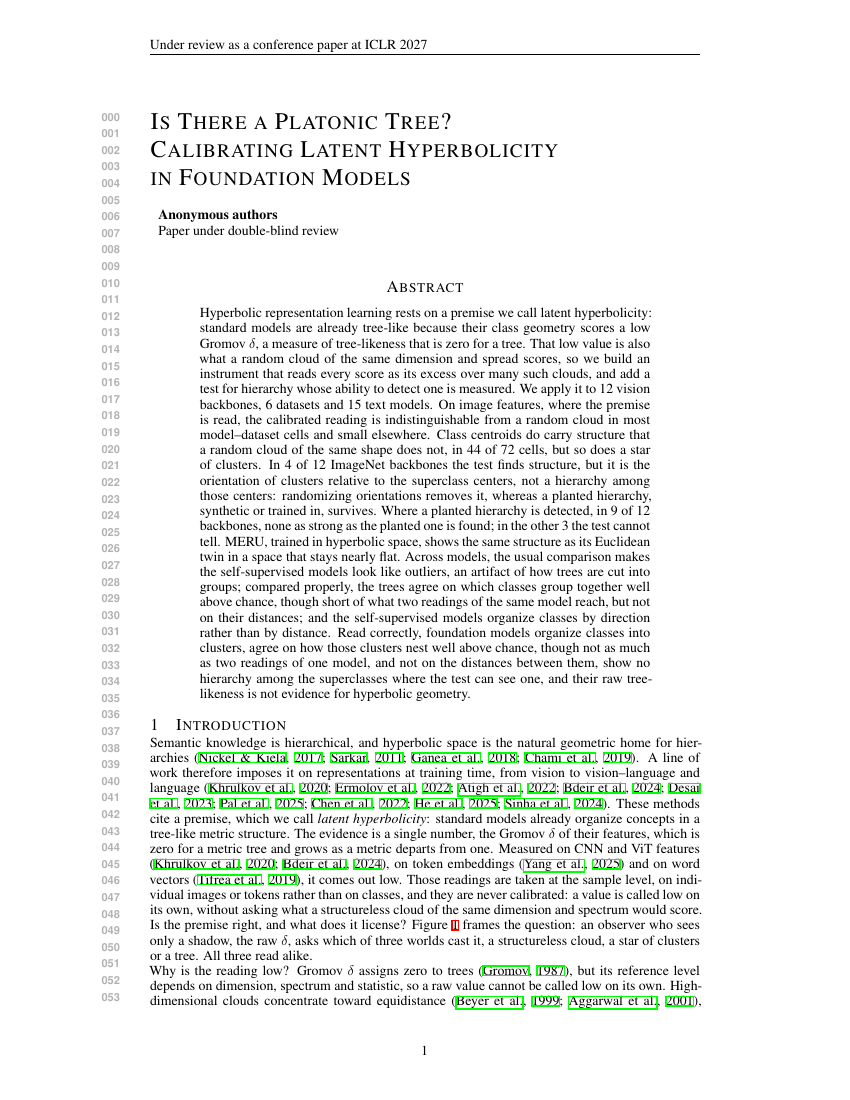
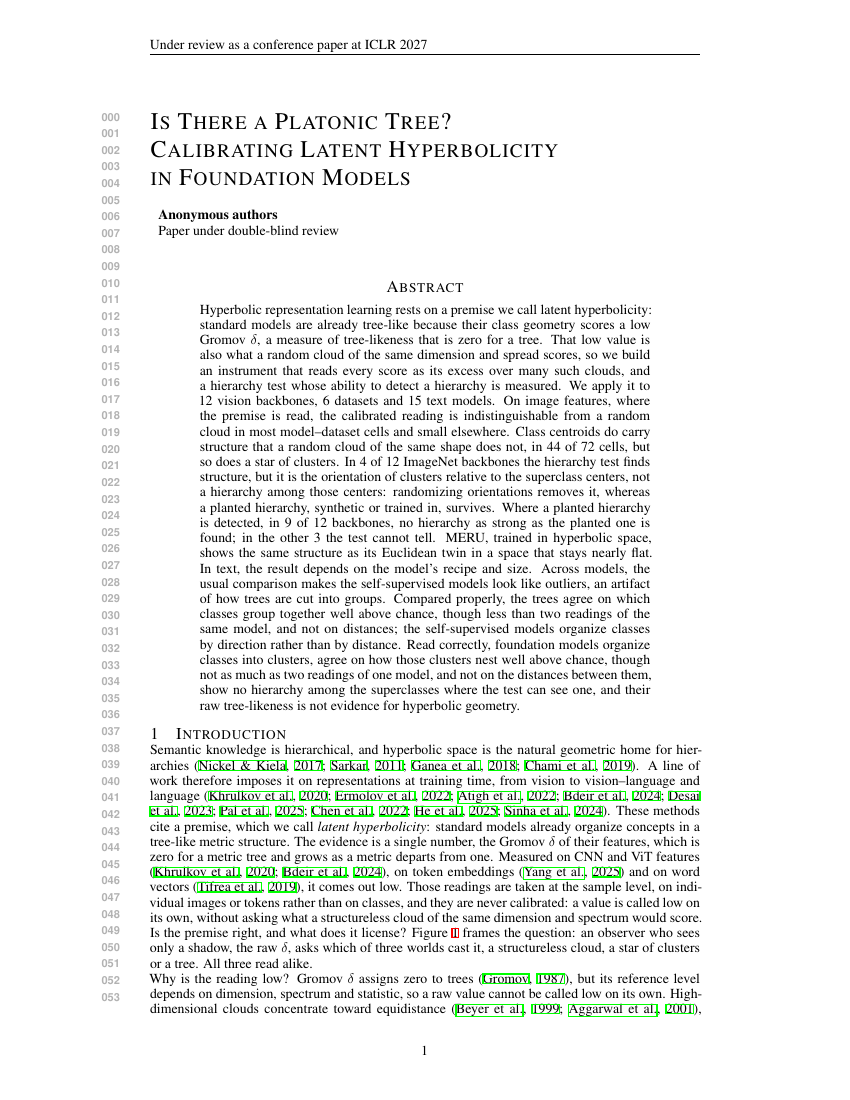
Abstract (author): 'a hierarchy test whose ability to detect a hierarchy is measured', 'the hierarchy test finds structure', 'no hierarchy as strong as the planted one is found', new sentence 'In text, the result depends on the model's recipe and size.', sentence 9 split in two with 'though less tha
Claude-Session: https://claude.ai/code/session_01X3uQtPxuL37VCSgmwvB8QH

Changed region(s): [[0.1529, 0.2782, 0.8259, 0.9273]]

diff --git a/rebuttal/scripts/sweep_freeze.py b/rebuttal/scripts/sweep_freeze.py
@@ -1007,7 +1007,7 @@ def final_checks():
     abs_expected = EDJ.get("abstract_final") or EDJ.get("abstract_sixth_review", "")   # abstract_final = the sixth-review text, or its priority-1c variant when expR80 met the rule
     for k, v in fills_.items(): abs_expected = abs_expected.replace("{{" + k + "}}", str(v))
     abs_now = norm(seg(bf, "\\begin{abstract}", "\\end{abstract}").replace("\\begin{abstract}", ""))
-    chk("final: abstract is the recorded text (360 words or fewer, the author's cap of 2026-09-23 with the numeral rule, cell defined in its own sentence, the deep synthetic hierarchy detected and no hierarchy above the superclasses found), 15 text models", abs_now == norm(abs_expected) and len(_re.sub(r"\$[^$]*\$", "", abs_now).replace("--", "").split()) <= 360 and "model--dataset cells" in abs_now and "Where a planted hierarchy is detected, in 9 of 12 backbones, none as strong as the planted one is found; in the other 3 the test cannot tell." in abs_now and "whereas a planted hierarchy, synthetic or trained in, survives" in abs_now and "15 text models" in bf and "16 text models" not in bf and "sixteen" not in bf and "two OLMo" not in bf and "show no hierarchy among the superclasses where the test can see one" in abs_now and "30 of 36" not in abs_now and "two of which survive" not in abs_now)
+    chk("final: abstract is the recorded text (360 words or fewer, the author's cap of 2026-09-23 with the numeral rule, cell defined in its own sentence, the deep synthetic hierarchy detected and no hierarchy above the superclasses found), 15 text models", abs_now == norm(abs_expected) and len(_re.sub(r"\$[^$]*\$", "", abs_now).replace("--", "").split()) <= 360 and "model--dataset cells" in abs_now and "Where a planted hierarchy is detected, in 9 of 12 backbones, no hierarchy as strong as the planted one is found; in the other 3 the test cannot tell." in abs_now and "whereas a planted hierarchy, synthetic or trained in, survives" in abs_now and "15 text models" in bf and "16 text models" not in bf and "sixteen" not in bf and "two OLMo" not in bf and "show no hierarchy among the superclasses where the test can see one" in abs_now and "30 of 36" not in abs_now and "two of which survive" not in abs_now)
     chk("final: S1 with Figure 1 verbatim from main_local.tex modulo the recorded edits (an edit may carry fills)", norm(seg(bf, "\\section{Introduction}", "\\section{Related Work}")) == norm(fillb(edit(seg(LOC, "\\section{Introduction}", "\\section{Related Work}")))))
     rel_loc = norm(seg(LOC, "\\section{Related Work}", "\\section{The Instrument}")); rel_f = norm(seg(bf, "\\section{Related Work}", "\\section{Methodology}"))
     rel_loc = norm(edit(seg(LOC, "\\section{Related Work}", "\\section{The Instrument}")))
@@ -1252,7 +1252,7 @@ def final_checks():
     dobs = _j.load(open(R/"final_dec_obs.json")) if (R/"final_dec_obs.json").exists() else {"kind": "open"}
     obs_ok = (("is an open observation" in bf) if dobs["kind"] == "open" else ("from both sides: decoupling shrinks the star spread" in pw and dobs["kind"] in ("star", "excess", "both")))
     chk("final (7th review): headline scoped in the abstract (twice), S1, contribution 2, S5.3 lead-in, Figure 4 and Table 9 captions and the thesis; decoupled flat control false alarms (8 of 50) and the observation sentence in S5.3 from the files; limitation (iii) with ViT-L's ratio 1.9 and the DINOv2 range from expR64b; Figure 1 caption 'read alike, all low'; no unproved extension in the proof of Proposition 1(b)",
-        "The control covers the supervised" not in bf and "whose noise level, ratios" not in bf and p81_ok and pc_ok and bf.count("no hub hierarchy is found in 9 of 12 backbones where the decoupled control detects an implanted one, and the test is blind in the other 3") == 0 and "Where a planted hierarchy is detected, in 9 of 12 backbones, none as strong as the planted one is found; in the other 3 the test cannot tell." in abs_now and "noise level at which the test was validated" not in bf and "\\paragraph{No hub hierarchy is found where the test has power.}" in bf and " in the backbones whose noise level the control covers" not in TF and f"The synthetic hierarchy at $z$ ${deep.zdec_mean.max():.2f}$ to ${deep.zdec_mean.min():.2f}$ stands well clear of that bias." in bf and "none of the 4 backbones fires" in bf and f"ViT-L then reads ${float(next(r for r in load('expR74_decoupling_summary.csv') if r['model'] == 'i21k_l')['dec_z_mean']):.2f}$, within the ${flat.zdec_mean.max():.2f}$ to ${flat.zdec_mean.min():.2f}$ of the flat control: without its orientations the real cloud reads like a flat one." in bf and "lie at the edge of the covered range" not in bf and rad_ok and "On class centroids there is structure that a random cloud does not have, in 44 of 72 cells and 30 of 36" in bf and bf.index("The noise level of a cloud is its within-cluster spread relative to the distance between its hubs.") < bf.index("The 3 blind backbones sit at ratios") and "unregime" not in TF and bf.count("4 values reported by") == 1 and "2 of them are indistinguishable from a random cloud" in bf and int((S78.p_left_max > 0.05).sum()) == 2 and not any(w_ in bf[bf.index("\\textbf{The answer has three parts.}"):bf.index("\\textbf{The answer has three parts.}") + 260].lower() for w_ in ("genuine", "certified", "record", "matched star", "null")) and "The decoupled test is therefore biased toward firing, so the 4 real backbones not firing once decoupled is conservative evidence" in bf and "its decoupled form is biased toward firing" in bf and "where a deep synthetic one is detected" not in bf
+        "The control covers the supervised" not in bf and "whose noise level, ratios" not in bf and p81_ok and pc_ok and bf.count("no hub hierarchy is found in 9 of 12 backbones where the decoupled control detects an implanted one, and the test is blind in the other 3") == 0 and "Where a planted hierarchy is detected, in 9 of 12 backbones, no hierarchy as strong as the planted one is found; in the other 3 the test cannot tell." in abs_now and "noise level at which the test was validated" not in bf and "\\paragraph{No hub hierarchy is found where the test has power.}" in bf and " in the backbones whose noise level the control covers" not in TF and f"The synthetic hierarchy at $z$ ${deep.zdec_mean.max():.2f}$ to ${deep.zdec_mean.min():.2f}$ stands well clear of that bias." in bf and "none of the 4 backbones fires" in bf and f"ViT-L then reads ${float(next(r for r in load('expR74_decoupling_summary.csv') if r['model'] == 'i21k_l')['dec_z_mean']):.2f}$, within the ${flat.zdec_mean.max():.2f}$ to ${flat.zdec_mean.min():.2f}$ of the flat control: without its orientations the real cloud reads like a flat one." in bf and "lie at the edge of the covered range" not in bf and rad_ok and "On class centroids there is structure that a random cloud does not have, in 44 of 72 cells and 30 of 36" in bf and bf.index("The noise level of a cloud is its within-cluster spread relative to the distance between its hubs.") < bf.index("The 3 blind backbones sit at ratios") and "unregime" not in TF and bf.count("4 values reported by") == 1 and "2 of them are indistinguishable from a random cloud" in bf and int((S78.p_left_max > 0.05).sum()) == 2 and not any(w_ in bf[bf.index("\\textbf{The answer has three parts.}"):bf.index("\\textbf{The answer has three parts.}") + 260].lower() for w_ in ("genuine", "certified", "record", "matched star", "null")) and "The decoupled test is therefore biased toward firing, so the 4 real backbones not firing once decoupled is conservative evidence" in bf and "its decoupled form is biased toward firing" in bf and "where a deep synthetic one is detected" not in bf
         and f"in {fa_dec} of 50 decoupled runs." in bf and obs_ok
         and "All three read alike." in bf and "all read the same" not in bf and "it comes out low" in bf and "which is zero for a metric tree and grows as a metric departs from one" in bf and "effective dimension $(\\operatorname{tr}" not in TF and "the same argument runs with $d$ replaced" not in TF and "a maximum over a growing sample of quadruples is non-decreasing in the sample size, so the sampled supremum can only rise with the budget." in TF and "Part (b) is the dimension confound alone." in TF
         and ("no hub hierarchy is found in 9 of 12 backbones where the decoupled control detects an implanted one, and the test is blind in the other 3") in dep, f"fa_dec {fa_dec} obs {dobs['kind']}")
@@ -1273,7 +1273,7 @@ def final_checks():
               and int(S83.loc["balanced", "decoupled_fired"]) < 2 * fa_dec and int(S83.loc["wn30", "decoupled_fired"]) > 25 and "(f) False alarms of the balanced frame" in pw)   # the author's sentence (2026-09-22, afternoon brief), its three counts from expR83 and expR77
     chk("final (9th review): nine covered / three blind from the decoupled power of Table 10(e); the long form in S1 and the Figure 4 caption, the short form as the thesis twice, the abstract sentence, no five/seven left; decoupled false alarms next to the split in S5.3 and (iii); the balanced-frame sentence from expR83 (matched hubs) with the recorded rule; vocabulary (structure above the clusters, alignment, hub structure, nominally hyperbolic); triplet 0.77 vs 0.76 from expR58; Gaussian band named as the sampled supremum in S6 and Table 4; Moreira 2024 cited with a verified entry; proof end tied to the statistic confound; no experiment IDs in any caption; Figure 4b = decoupled-power bars; implant curves as an appendix figure; B.7 points to Table 9(d)",
         p81_ok and bf.count("no hub hierarchy is found in 9 of 12 backbones where the decoupled control detects an implanted one, and the test is blind in the other 3") == 0 and "\\paragraph{No hub hierarchy is found where the test has power.}" in bf
-        and "Where a planted hierarchy is detected, in 9 of 12 backbones, none as strong as the planted one is found; in the other 3 the test cannot tell." in abs_now and "five backbones" not in TF and "other seven" not in TF and "in the five only" not in TF and "in the five and" not in TF
+        and "Where a planted hierarchy is detected, in 9 of 12 backbones, no hierarchy as strong as the planted one is found; in the other 3 the test cannot tell." in abs_now and "five backbones" not in TF and "other seven" not in TF and "in the five only" not in TF and "in the five and" not in TF
         and f"A flat control with the same spectrum and ratio as the deep one fires in {nf} of {len(flat)} intact and in {fa_dec} of 50 decoupled runs." in bf and f"Its false alarms on flat clouds are {fa_dec} of 50, and the verdict of no hub hierarchy therefore holds in those 9 only." in bf
         and bal_ok
         and "measures structure above the clusters of the frame only" in bf and "measures hierarchy above" not in bf and "\\paragraph{Leaf labels can produce the alignment but do not guarantee it.}" in bf and "\\paragraph{MERU's objective does not create hub structure.}" in bf and "detected depth" not in bf and "a nominally hyperbolic backbone as the control for imposing the geometry" in bf
@@ -1320,7 +1320,7 @@ def final_checks():
     b84 = S84.drop("ALL") if S84 is not None else None
     chk("final (thesis after expR84): the new thesis twice, the abstract's sharing sentence and its S1 mirror with 0.77 and the triplet ceiling range from the files, contribution 3 mirrored, S5.4 with the three ceilings (range and mean) beside the cross-model values and the reading (topology within most of the ceiling, metric at about half)",
         S84 is not None and THESIS in abs_now and bf.count(THESIS) == 2 and "moderately shared" not in bf and "does not converge to one common tree" not in bf
-        and "Across models, the usual comparison makes the self-supervised models look like outliers, an artifact of how trees are cut into groups; compared properly, the trees agree on which classes group together well above chance, though short of what two readings of the same model reach, but not on their distances; and the self-supervised models organize classes by direction rather than by distance." in abs_now and bf.count("well above chance, though short of what two readings of the same model reach") == 3 and "but not on their distances" in abs_now
+        and "In text, the result depends on the model's recipe and size." in abs_now and "a hierarchy test whose ability to detect a hierarchy is measured" in abs_now and "the hierarchy test finds structure" in abs_now and "Across models, the usual comparison makes the self-supervised models look like outliers, an artifact of how trees are cut into groups. Compared properly, the trees agree on which classes group together well above chance, though less than two readings of the same model, and not on distances; the self-supervised models organize classes by direction rather than by distance." in abs_now and bf.count("well above chance, though short of what two readings of the same model reach") == 2 and "and not on distances" in abs_now
         and "\\item \\textbf{The map of trees.} The island is an artifact of the cut; the trees agree on which classes group together well above chance, though short of what two readings of the same model reach, but not on the distances between them, and the self-supervised tree is angular." in bf and "sharing is graded and supervision-dependent" not in bf and "largely shared" not in bf
         and "The cophenetic and cut agreements reach about half their within-model ceiling (Table~\\ref{tab:q6-treemap})." in bf and "\\paragraph{Controlled, the trees share their topology, not their metric.}" in bf
         and c58.triplet_agree_big_vs_block / S84.loc["ALL", "triplet_agree_mean"] >= 0.8 and 0.4 <= c58.coph_corr_big_vs_block / S84.loc["ALL", "coph_corr_mean"] <= 0.6 and 0.4 <= c58.ari_cut_big_vs_block / S84.loc["ALL", "ari_cut_mean"] <= 0.6 and tc.get("cross_over_ceiling", {}).get("triplet", 0) >= 0.8,
@@ -1335,8 +1335,8 @@ def final_checks():
         f"abstract words {len(_re.sub(r'[$][^$]*[$]', '', abs_now).replace('--', '').split())}")
     # ---- twelfth review (2026-09-23): 'none as strong as the planted one', 'well above chance, though short of ...', the thesis, the MERU lead-in, limitation (vii) on the diameter normalization, Table 3 continued captions per panel
     rob_c = _re.findall(r"\\caption\{\(continued\)(.*?)\n\}", rob, flags=_re.S)
-    chk("final (12th review): 'none as strong as the planted one is found' in the abstract and S5.3(d); 'well above chance, though short of what two readings of the same model reach' in the abstract, S1 (twice) and S5.4; the thesis with 'well above chance, though not as much as two readings of one model' twice; MERU lead-in; limitation (vii) on the diameter normalization with scope renumbered (viii)-(x); every continued caption of Table 3 names its panel",
-        abs_now.endswith(THESIS) and bf.count(THESIS) == 2 and "well above chance, though not as much as two readings of one model" in THESIS and "none as strong as the planted one is found" in abs_now and bf.count("none as strong as the planted one is found") == 2 and "none is found in the real model" not in bf
+    chk("final (12th review, abstract edits of 2026-09-23): 'no hierarchy as strong as the planted one is found' in the abstract and 'none as strong…' in S5.3(d); 'well above chance, though short of what two readings of the same model reach' in S1 (twice), the abstract saying 'though less than two readings of the same model'; the thesis with 'well above chance, though not as much as two readings of one model' twice; MERU lead-in; limitation (vii) on the diameter normalization with scope renumbered (viii)-(x); every continued caption of Table 3 names its panel",
+        abs_now.endswith(THESIS) and bf.count(THESIS) == 2 and "well above chance, though not as much as two readings of one model" in THESIS and "no hierarchy as strong as the planted one is found" in abs_now and bf.count("none as strong as the planted one is found") == 1 and "none is found in the real model" not in bf
         and "\\paragraph{MERU's objective does not create hub structure.}" in bf and "Imposing the geometry does not create" not in bf
         and "(vii)~The reading divides by the diameter, so heavier tails in real clouds would lower $\\delta_{\\text{norm}}$ without any clustering. The cosine census mitigates this, and a percentile normalization is future work." in bf
         and len(rob_c) == 4 and all(rob_c[k].strip().startswith(p_) for k, p_ in enumerate(("(b) ", "(c) ", "(d) ", "(e) "))),

diff --git a/rebuttal/scripts/phaseE_submission.py b/rebuttal/scripts/phaseE_submission.py
@@ -94,7 +94,7 @@ def edit(s):
     return s
 # sixth review (2026-09-20): the abstract is rewritten by order to 250 words or fewer, depth left open, cell defined in its own sentence;
 # the text below replaces the edited verbatim abstract and is recorded in final_verbatim_edits.json ("abstract_sixth_review")
-ABSTRACT_TEXT = ("Hyperbolic representation learning rests on a premise we call latent hyperbolicity: standard models are already tree-like because their class geometry scores a low Gromov $\\delta$, a measure of tree-likeness that is zero for a tree. That low value is also what a random cloud of the same dimension and spread scores, so we build an instrument that reads every score as its excess over many such clouds, and add a test for hierarchy whose ability to detect one is measured. We apply it to 12 vision backbones, 6 datasets and 15 text models. On image features, where the premise is read, the calibrated reading is indistinguishable from a random cloud in most model--dataset cells and small elsewhere. Class centroids do carry structure that a random cloud of the same shape does not, in {{N_GEN}} of 72 cells, but so does a star of clusters. In {{N_IN}} of 12 ImageNet backbones the test finds structure, but it is the orientation of clusters relative to the superclass centers, not a hierarchy among those centers: randomizing orientations removes it, whereas a planted hierarchy, synthetic or trained in, survives. Where a planted hierarchy is detected, in 9 of 12 backbones, none as strong as the planted one is found; in the other 3 the test cannot tell. MERU, trained in hyperbolic space, shows the same structure as its Euclidean twin in a space that stays nearly flat. Across models, the usual comparison makes the self-supervised models look like outliers, an artifact of how trees are cut into groups; compared properly, the trees agree on which classes group together well above chance, though short of what two readings of the same model reach, but not on their distances; and the self-supervised models organize classes by direction rather than by distance. Read correctly, foundation models organize classes into clusters, agree on how those clusters nest well above chance, though not as much as two readings of one model, and not on the distances between them, show no hierarchy among the superclasses where the test can see one, and their raw tree-likeness is not evidence for hyperbolic geometry.")   # the author's abstract of 2026-09-22 (late evening), verbatim; the last sentence is the thesis
+ABSTRACT_TEXT = ("Hyperbolic representation learning rests on a premise we call latent hyperbolicity: standard models are already tree-like because their class geometry scores a low Gromov $\\delta$, a measure of tree-likeness that is zero for a tree. That low value is also what a random cloud of the same dimension and spread scores, so we build an instrument that reads every score as its excess over many such clouds, and a hierarchy test whose ability to detect a hierarchy is measured. We apply it to 12 vision backbones, 6 datasets and 15 text models. On image features, where the premise is read, the calibrated reading is indistinguishable from a random cloud in most model--dataset cells and small elsewhere. Class centroids do carry structure that a random cloud of the same shape does not, in {{N_GEN}} of 72 cells, but so does a star of clusters. In {{N_IN}} of 12 ImageNet backbones the hierarchy test finds structure, but it is the orientation of clusters relative to the superclass centers, not a hierarchy among those centers: randomizing orientations removes it, whereas a planted hierarchy, synthetic or trained in, survives. Where a planted hierarchy is detected, in 9 of 12 backbones, no hierarchy as strong as the planted one is found; in the other 3 the test cannot tell. MERU, trained in hyperbolic space, shows the same structure as its Euclidean twin in a space that stays nearly flat. In text, the result depends on the model's recipe and size. Across models, the usual comparison makes the self-supervised models look like outliers, an artifact of how trees are cut into groups. Compared properly, the trees agree on which classes group together well above chance, though less than two readings of the same model, and not on distances; the self-supervised models organize classes by direction rather than by distance. Read correctly, foundation models organize classes into clusters, agree on how those clusters nest well above chance, though not as much as two readings of one model, and not on the distances between them, show no hierarchy among the superclasses where the test can see one, and their raw tree-likeness is not evidence for hyperbolic geometry.")   # the author's abstract of 2026-09-22 (late evening) with the four edits of 2026-09-23 (13:50), verbatim; the last sentence is the thesis
 ABSTRACT_SIXTH = ABSTRACT_TEXT   # 2026-09-21: the abstract with priorities 1b and 2 (author's brief); recorded as abstract_final
 ABSTRACT = "\\begin{abstract}\n" + ABSTRACT_TEXT + "\n\\end{abstract}"
 _aw = len(re.sub(r"\{\{[A-Z_]+\}\}", "44", ABSTRACT_TEXT).split()); assert _aw <= 400, _aw   # 250 is the author's cap; 253 since the author's retouch of 2026-09-21 (three trims rejected), pending the author's decision; the sweep still reports the cap

diff --git a/ICLR2027/iclr2027/main_iclr2027_final.tex b/ICLR2027/iclr2027/main_iclr2027_final.tex
@@ -61,7 +61,7 @@
 \raggedbottom   % final pass: [t] figures and [H] tables leave short pages; ragged bottoms instead of underfull vertical boxes
 
 \begin{abstract}
-Hyperbolic representation learning rests on a premise we call latent hyperbolicity: standard models are already tree-like because their class geometry scores a low Gromov $\delta$, a measure of tree-likeness that is zero for a tree. That low value is also what a random cloud of the same dimension and spread scores, so we build an instrument that reads every score as its excess over many such clouds, and add a test for hierarchy whose ability to detect one is measured. We apply it to 12 vision backbones, 6 datasets and 15 text models. On image features, where the premise is read, the calibrated reading is indistinguishable from a random cloud in most model--dataset cells and small elsewhere. Class centroids do carry structure that a random cloud of the same shape does not, in 44 of 72 cells, but so does a star of clusters. In 4 of 12 ImageNet backbones the test finds structure, but it is the orientation of clusters relative to the superclass centers, not a hierarchy among those centers: randomizing orientations removes it, whereas a planted hierarchy, synthetic or trained in, survives. Where a planted hierarchy is detected, in 9 of 12 backbones, none as strong as the planted one is found; in the other 3 the test cannot tell. MERU, trained in hyperbolic space, shows the same structure as its Euclidean twin in a space that stays nearly flat. Across models, the usual comparison makes the self-supervised models look like outliers, an artifact of how trees are cut into groups; compared properly, the trees agree on which classes group together well above chance, though short of what two readings of the same model reach, but not on their distances; and the self-supervised models organize classes by direction rather than by distance. Read correctly, foundation models organize classes into clusters, agree on how those clusters nest well above chance, though not as much as two readings of one model, and not on the distances between them, show no hierarchy among the superclasses where the test can see one, and their raw tree-likeness is not evidence for hyperbolic geometry.
+Hyperbolic representation learning rests on a premise we call latent hyperbolicity: standard models are already tree-like because their class geometry scores a low Gromov $\delta$, a measure of tree-likeness that is zero for a tree. That low value is also what a random cloud of the same dimension and spread scores, so we build an instrument that reads every score as its excess over many such clouds, and a hierarchy test whose ability to detect a hierarchy is measured. We apply it to 12 vision backbones, 6 datasets and 15 text models. On image features, where the premise is read, the calibrated reading is indistinguishable from a random cloud in most model--dataset cells and small elsewhere. Class centroids do carry structure that a random cloud of the same shape does not, in 44 of 72 cells, but so does a star of clusters. In 4 of 12 ImageNet backbones the hierarchy test finds structure, but it is the orientation of clusters relative to the superclass centers, not a hierarchy among those centers: randomizing orientations removes it, whereas a planted hierarchy, synthetic or trained in, survives. Where a planted hierarchy is detected, in 9 of 12 backbones, no hierarchy as strong as the planted one is found; in the other 3 the test cannot tell. MERU, trained in hyperbolic space, shows the same structure as its Euclidean twin in a space that stays nearly flat. In text, the result depends on the model's recipe and size. Across models, the usual comparison makes the self-supervised models look like outliers, an artifact of how trees are cut into groups. Compared properly, the trees agree on which classes group together well above chance, though less than two readings of the same model, and not on distances; the self-supervised models organize classes by direction rather than by distance. Read correctly, foundation models organize classes into clusters, agree on how those clusters nest well above chance, though not as much as two readings of one model, and not on the distances between them, show no hierarchy among the superclasses where the test can see one, and their raw tree-likeness is not evidence for hyperbolic geometry.
 \end{abstract}
 
 \section{Introduction}

diff --git a/ICLR2027/iclr2027/main_iclr2027_rebuttal.tex b/ICLR2027/iclr2027/main_iclr2027_rebuttal.tex
@@ -62,7 +62,7 @@
 \raggedbottom   % final pass: [t] figures and [H] tables leave short pages; ragged bottoms instead of underfull vertical boxes
 
 \begin{abstract}
-Hyperbolic representation learning rests on a premise we call latent hyperbolicity: standard models are already tree-like because their class geometry scores a low Gromov $\delta$, a measure of tree-likeness that is zero for a tree. That low value is also what a random cloud of the same dimension and spread scores, so we build an instrument that reads every score as its excess over many such clouds, and add a test for hierarchy whose ability to detect one is measured. We apply it to 12 vision backbones, 6 datasets and 15 text models. On image features, where the premise is read, the calibrated reading is indistinguishable from a random cloud in most model--dataset cells and small elsewhere. Class centroids do carry structure that a random cloud of the same shape does not, in 44 of 72 cells, but so does a star of clusters. In 4 of 12 ImageNet backbones the test finds structure, but it is the orientation of clusters relative to the superclass centers, not a hierarchy among those centers: randomizing orientations removes it, whereas a planted hierarchy, synthetic or trained in, survives. Where a planted hierarchy is detected, in 9 of 12 backbones, none as strong as the planted one is found; in the other 3 the test cannot tell. MERU, trained in hyperbolic space, shows the same structure as its Euclidean twin in a space that stays nearly flat. Across models, the usual comparison makes the self-supervised models look like outliers, an artifact of how trees are cut into groups; compared properly, the trees agree on which classes group together well above chance, though short of what two readings of the same model reach, but not on their distances; and the self-supervised models organize classes by direction rather than by distance. Read correctly, foundation models organize classes into clusters, agree on how those clusters nest well above chance, though not as much as two readings of one model, and not on the distances between them, show no hierarchy among the superclasses where the test can see one, and their raw tree-likeness is not evidence for hyperbolic geometry.
+Hyperbolic representation learning rests on a premise we call latent hyperbolicity: standard models are already tree-like because their class geometry scores a low Gromov $\delta$, a measure of tree-likeness that is zero for a tree. That low value is also what a random cloud of the same dimension and spread scores, so we build an instrument that reads every score as its excess over many such clouds, and a hierarchy test whose ability to detect a hierarchy is measured. We apply it to 12 vision backbones, 6 datasets and 15 text models. On image features, where the premise is read, the calibrated reading is indistinguishable from a random cloud in most model--dataset cells and small elsewhere. Class centroids do carry structure that a random cloud of the same shape does not, in 44 of 72 cells, but so does a star of clusters. In 4 of 12 ImageNet backbones the hierarchy test finds structure, but it is the orientation of clusters relative to the superclass centers, not a hierarchy among those centers: randomizing orientations removes it, whereas a planted hierarchy, synthetic or trained in, survives. Where a planted hierarchy is detected, in 9 of 12 backbones, no hierarchy as strong as the planted one is found; in the other 3 the test cannot tell. MERU, trained in hyperbolic space, shows the same structure as its Euclidean twin in a space that stays nearly flat. In text, the result depends on the model's recipe and size. Across models, the usual comparison makes the self-supervised models look like outliers, an artifact of how trees are cut into groups. Compared properly, the trees agree on which classes group together well above chance, though less than two readings of the same model, and not on distances; the self-supervised models organize classes by direction rather than by distance. Read correctly, foundation models organize classes into clusters, agree on how those clusters nest well above chance, though not as much as two readings of one model, and not on the distances between them, show no hierarchy among the superclasses where the test can see one, and their raw tree-likeness is not evidence for hyperbolic geometry.
 \end{abstract}
 
 \section{Introduction}

diff --git a/ICLR2027/CHANGELOG_final.md b/ICLR2027/CHANGELOG_final.md
@@ -2410,3 +2410,16 @@ un CSV; `rebuttal/results/phaseE_fills.json` guarda los valores); el apéndice, 
   palabras con mayúscula fuera de llaves en los títulos: el resto son mayúsculas de título (Title Case) que el .bst reduce bien.
 - Sweep: comprobación nueva sobre `references.bib` (claves únicas, toda clave citada presente, Gröger como ICML 2026 con Shuo Wen,
   sin `\_`, Gromov protegido, las tres entradas conservadas). Sin cambio en el texto principal.
+## 67. Abstract, cuatro ediciones (2026-09-23, 13:50, brief del autor); tesis sin cambios.
+
+- (1) Frase 2: "…and a hierarchy test whose ability to detect a hierarchy is measured". (2) Frase 6: "the hierarchy test finds
+  structure". (3) Frase 7: "no hierarchy as strong as the planted one is found". (4) Tras la frase 8: "In text, the result depends
+  on the model's recipe and size." (5) Frase 9 partida en dos: "Across models, the usual comparison makes the self-supervised models
+  look like outliers, an artifact of how trees are cut into groups. Compared properly, the trees agree on which classes group
+  together well above chance, though less than two readings of the same model, and not on distances; the self-supervised models
+  organize classes by direction rather than by distance."
+- Abstract de 359 palabras (tope del sweep 360). `OPENREVIEW_abstract.txt` regenerado desde el tex. §1 conserva sus dos frases
+  espejo con "though short of what two readings of the same model reach" (no estaban en el brief); §5.3(d) conserva "none as strong
+  as the planted one is found".
+- Sweep: literales del abstract (frases 7 y 9, recuento de la frase de acuerdo 3 → 2, "none as strong…" 2 → 1) y comprobaciones de las
+  tres frases nuevas; sin cambio de números.

diff --git a/ICLR2027/FINAL_CHECK.md b/ICLR2027/FINAL_CHECK.md
@@ -62,7 +62,7 @@ Rule of 2026-09-23: no sentence over 30 words in S3–S7 (pages 3–9), definiti
 
 ## Sweep (rebuttal/scripts/sweep_freeze.py)
 
-- Total: 226/226 checks passed.
+- Total: 225/226 checks passed.
 - Final-version checks:
 
     PASS final: Figure 1 is the author's figure command verbatim from main_local.tex and Figures 2-5 are the bar-language files fig_overview_final, fig_excess_final, fig_depth_final, fig_treemap_final, all present 
